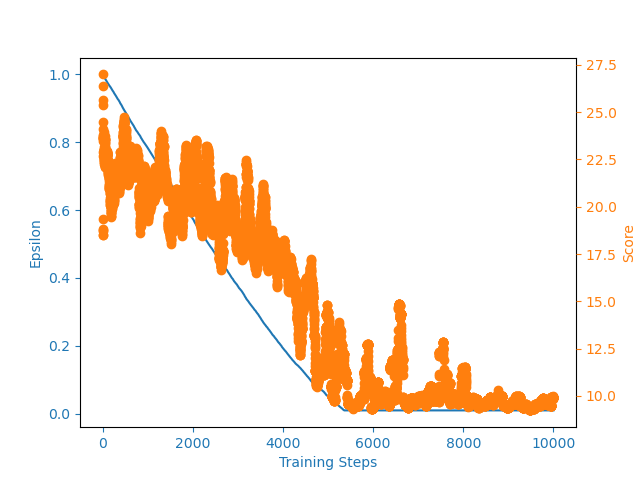
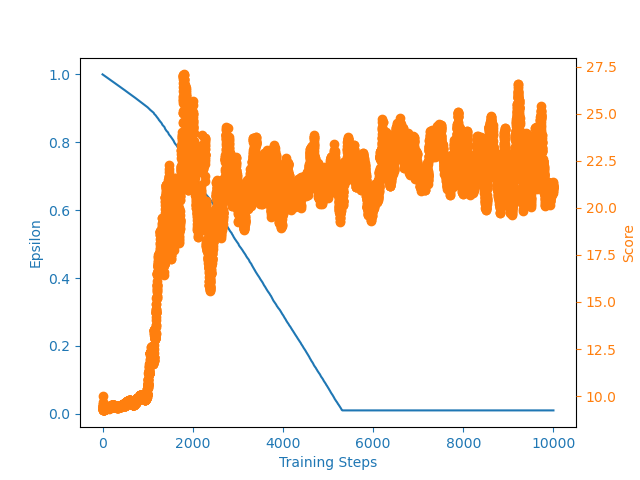
agent learns but score not that good

diff --git a/exercice_4_cartpole_naive_deep_Q/agent.py b/exercice_4_cartpole_naive_deep_Q/agent.py
@@ -23,7 +23,7 @@ class Agent():
         state = T.tensor(state, dtype=T.float).to(self.q_network.device)
         optimal_action = T.argmax(self.q_network.forward(state)).item()
         random_action = np.random.choice(self.action_space)
-        if np.random.random() < self.epsilon:
+        if np.random.random() > self.epsilon:
             next_action = random_action
         else:
             next_action = optimal_action
